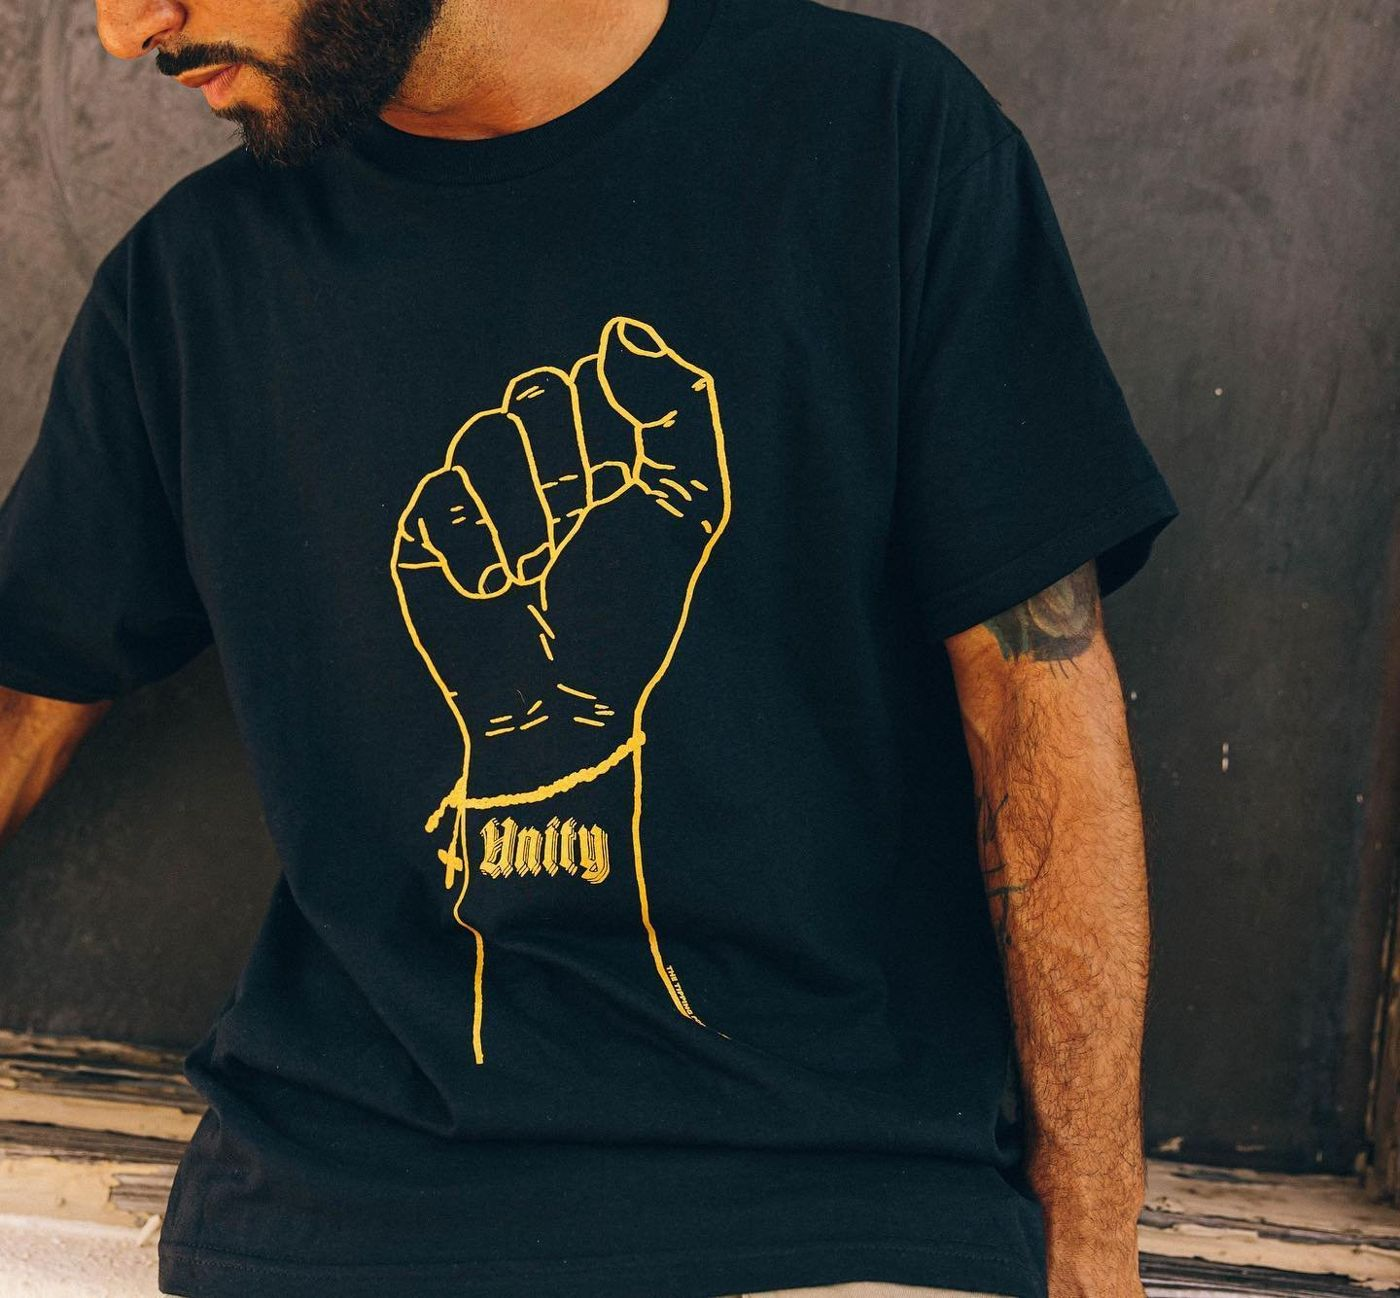
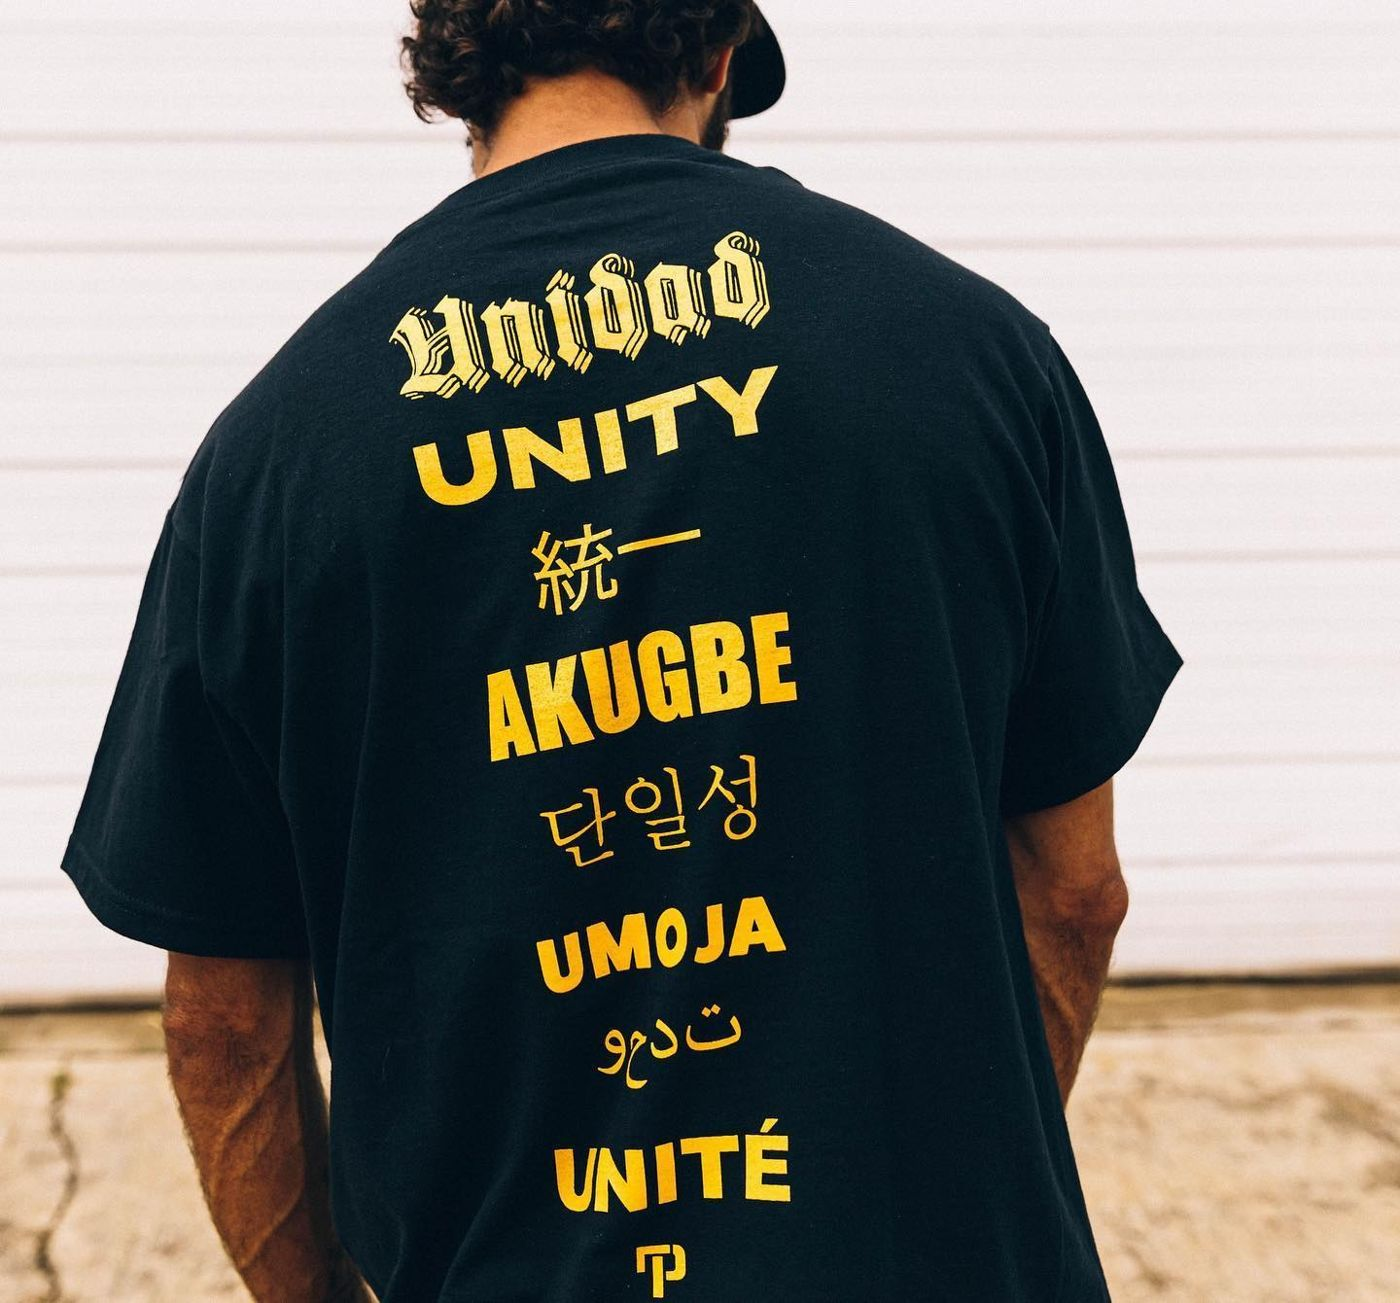
Store history from the 15th anniversary map, carousel photos, two caps
Claude-Session: https://claude.ai/code/session_01NydzHBh1QXYzyKbtBvMmRD

diff --git a/index.html b/index.html
@@ -185,6 +185,9 @@ blockquote footer{margin-top:.6rem}
 .drink-shot{position:sticky;top:90px}
 .drink-shot img{width:100%;aspect-ratio:4/5;object-fit:cover;border-radius:16px}
 .drink-shot figcaption{margin-top:8px}
+.history{list-style:none;padding-top:40px;padding-bottom:0;display:grid;grid-template-columns:repeat(auto-fill,minmax(min(180px,100%),1fr));gap:28px clamp(16px,2vw,28px)}
+.history li{border-top:2px solid var(--yolk);padding-top:10px;font-size:.98rem;max-width:36ch}
+.history strong{display:block;font-family:var(--display);font-weight:400;font-size:1.6rem;line-height:1.1;color:var(--yolk);margin-bottom:4px}
 .timeline{list-style:none;padding:0;display:grid;grid-template-columns:repeat(3,1fr);gap:clamp(16px,2vw,28px);counter-reset:stop}
 .timeline li{counter-increment:stop;position:relative;padding-top:56px;border-top:2px solid var(--yolk)}
 .timeline li::before{content:counter(stop);position:absolute;top:10px;left:0;font-family:var(--display);font-size:2rem;line-height:1;color:var(--yolk)}
@@ -413,6 +416,8 @@ footer.site .display{font-size:clamp(2.4rem,6vw,5rem);color:var(--yolk);margin-b
       <li><figure><img src="img/cap-lolife.jpg" alt="Lo-Life 4 Hat Range fitted cap" loading="lazy" width="1050" height="1400"><figcaption><strong>Lo-Life 4 Hat Range</strong>Polo-inspired pack<span class="credit">@david__tipping</span></figcaption></figure></li>
       <li><figure><img src="img/cap-doom.jpg" alt="DOOM fitted cap" loading="lazy" width="1050" height="1400"><figcaption><strong>DOOM</strong>Doomsday Pack, with @robbboomin<span class="credit">@whatafitted</span></figcaption></figure></li>
       <li><figure><img src="img/cap-cattle.jpg" alt="Cattle Pack 2025 fitted cap" loading="lazy" width="787" height="1400"><figcaption><strong>Cattle Pack 2025</strong>Hat Club<span class="credit">@david__tipping</span></figcaption></figure></li>
+      <li><figure><img src="img/cap-southside.jpg" alt="Black Astros fitted cap with a gold anniversary patch" loading="lazy" width="1400" height="1400"><figcaption><strong>Southside Astros</strong>With @southsidehtx<span class="credit">@thetippingpointstore</span></figcaption></figure></li>
+      <li><figure><img src="img/cap-15th.jpg" alt="Olive fitted cap with a cream T logo" loading="lazy" width="1400" height="1400"><figcaption><strong>15th Anniversary</strong>The Tipping Point, 2021<span class="credit">@thetippingpointstore</span></figcaption></figure></li>
     </ul>
   </div>
 </section>
@@ -478,6 +483,20 @@ footer.site .display{font-size:clamp(2.4rem,6vw,5rem);color:var(--yolk);margin-b
 
 <section class="chapter" id="store" aria-labelledby="store-title">
   <div class="wrap"><h2 class="display" id="store-title">The Store</h2><p class="lede">“Creatively representing Houston since 2007.” Candles, hoodies, caps, pop-ups and parties, from the @thetippingpointstore archive.</p></div>
+  <ol class="wrap history" aria-label="Store history">
+    <li><strong>2006</strong>The Tipping Point is established.</li>
+    <li><strong>2007</strong>Grand opening on Main St.</li>
+    <li><strong>2008</strong>Hosts Sneaker Pimps.</li>
+    <li><strong>2010</strong>Introduces its own apparel.</li>
+    <li><strong>2013</strong>Hosts the Just Don All-Star pop-up installation.</li>
+    <li><strong>2014</strong>Curates a stage at Free Press Summer Fest.</li>
+    <li><strong>2015</strong>Shows Anthony Bourdain around H-Town for the <em>Parts Unknown</em> Houston episode, and moves to Travis St.</li>
+    <li><strong>2016</strong>Hosts the Kendrick Lamar DAMN pop-up.</li>
+    <li><strong>2018</strong>Roundhouse Vintage opens inside the store, and the coffee program starts.</li>
+    <li><strong>2020</strong>Named one of the top 10 U.S. stores that helped define streetwear.</li>
+    <li><strong>2021</strong>Fifteen years: a capsule, two releases and a cookout.</li>
+    <li><strong>2026</strong>Twenty years, celebrated with adidas.</li>
+  </ol>
   <div class="strip" tabindex="0" aria-label="Store drops by year">
     <figure class="sq"><img src="img/store-santo.jpg" alt="Hand holding a black Santo candle" loading="lazy"><figcaption><strong class="yr">2018</strong> The “Santo” candle with @west97th. Leather, amber and cypress.</figcaption></figure>
     <figure class="sq"><img src="img/store-doublecup.jpg" alt="Lit purple candle poured into a white double foam cup" loading="lazy"><figcaption><strong class="yr">2019</strong> The Double Cup candle with @detroitwick, poured by hand.</figcaption></figure>
@@ -485,14 +504,14 @@ footer.site .display{font-size:clamp(2.4rem,6vw,5rem);color:var(--yolk);margin-b
     <figure class="sq"><img src="img/store-kicks-coffee.jpg" alt="Navy Kicks and Coffee shirt laid in ferns" loading="lazy"><figcaption><strong class="yr">2019</strong> Merch for the first Kicks &amp; Coffee.</figcaption></figure>
     <figure class="land"><img src="img/store-dont-sleep.jpg" alt="Group posing on steps in Don’t Sleep gear" loading="lazy"><figcaption><strong class="yr">2019</strong> Don’t Sleep, with @roundhouse_vintage and @preneurstudios.</figcaption></figure>
     <figure class="sq"><img src="img/store-holy-grails.jpg" alt="Crowd inside the shop under a neon star" loading="lazy"><figcaption><strong class="yr">2020</strong> “Holy Grails” vintage night with @roundhouse_vintage.</figcaption></figure>
-    <figure class="sq"><img src="img/store-unity.jpg" alt="Black Unity tee with a gold raised fist" loading="lazy"><figcaption><strong class="yr">2020</strong> The Unity shirt.</figcaption></figure>
+    <figure class="sq"><img src="img/store-unity.jpg" alt="Back of the Unity tee, the word unity printed in several languages" loading="lazy"><figcaption><strong class="yr">2020</strong> The Unity shirt, “unity” in eight languages.</figcaption></figure>
     <figure class="land"><img src="img/store-houston-hoodie.jpg" alt="Green Houston hoodie on Champion reverse weave" loading="lazy"><figcaption><strong class="yr">2020</strong> The Houston Love hoodie, on Champion reverse weave.</figcaption></figure>
     <figure class="sq"><img src="img/store-floraculture.jpg" alt="Two people with a tote bag among plants" loading="lazy"><figcaption><strong class="yr">2021</strong> Pop-up with @thefloraculture.</figcaption></figure>
     <figure class="sq"><img src="img/store-15th-tees.jpg" alt="Two women in matching Tipping Point anniversary tees" loading="lazy"><figcaption><strong class="yr">2021</strong> 15 years: a cookout and a run of drops.</figcaption></figure>
     <figure class="sq"><img src="img/store-hdk-chain.jpg" alt="Dog wearing a gold Cuban link collar" loading="lazy"><figcaption><strong class="yr">2021</strong> Dog chains for the 15th, with @hdk_lux_dog_chains.</figcaption></figure>
     <figure class="port"><img src="img/store-downsoul.jpg" alt="Person in a Down Soul tee leaning on a classic car" loading="lazy"><figcaption><strong class="yr">2021</strong> Down Soul tees with @doemanxdyna for the coffee shop opening.</figcaption></figure>
     <figure class="land"><img src="img/store-hatclub-line.jpg" alt="Long line of people outside the shop with lowriders parked out front" loading="lazy"><figcaption><strong class="yr">2023</strong> “From HTX Live!” Hatclub weekend. The city showed out.</figcaption></figure>
-    <figure class="sq"><img src="img/store-proper-2.jpg" alt="Astros cap under a neon Tipping Point sign" loading="lazy"><figcaption><strong class="yr">2023</strong> The 2.0 cap with @properhtx.</figcaption></figure>
+    <figure class="sq"><img src="img/store-proper-2.jpg" alt="Stack of cream and red Astros caps on a table" loading="lazy"><figcaption><strong class="yr">2023</strong> The 2.0 cap with @properhtx.</figcaption></figure>
     <figure class="sq"><img src="img/store-proper-3.jpg" alt="Grey cap with a cartoon patch and Astros logo" loading="lazy"><figcaption><strong class="yr">2024</strong> The 3.0, with the classic pin.</figcaption></figure>
   </div>
 </section>
@@ -601,7 +620,7 @@ footer.site .display{font-size:clamp(2.4rem,6vw,5rem);color:var(--yolk);margin-b
   gsap.set(wipe, { clipPath: 'inset(100% 0% 0% 0% round 12px)' });
   ScrollTrigger.batch(wipe, { start: 'top 90%', once: true, onEnter: b => gsap.to(b, { clipPath: 'inset(0% 0% 0% 0% round 12px)', duration: 1.1, ease: 'expo.inOut', stagger: .1 }) });
   // Caps, food shots and reels drop in like they're being hung on the wall
-  const rise = '.wall li, .strip figure, .es, .timeline li, .drinks li';
+  const rise = '.wall li, .strip figure, .es, .timeline li, .history li, .drinks li';
   gsap.set(rise, { opacity: 0, y: 70 });
   ScrollTrigger.batch(rise, { start: 'top 92%', once: true, onEnter: b => gsap.fromTo(b, { rotate: () => gsap.utils.random(-6, 6) }, { opacity: 1, y: 0, rotate: 0, duration: 1, ease: 'expo.out', stagger: .07 }) });
   // "Rides" grows as the truck comes into view
